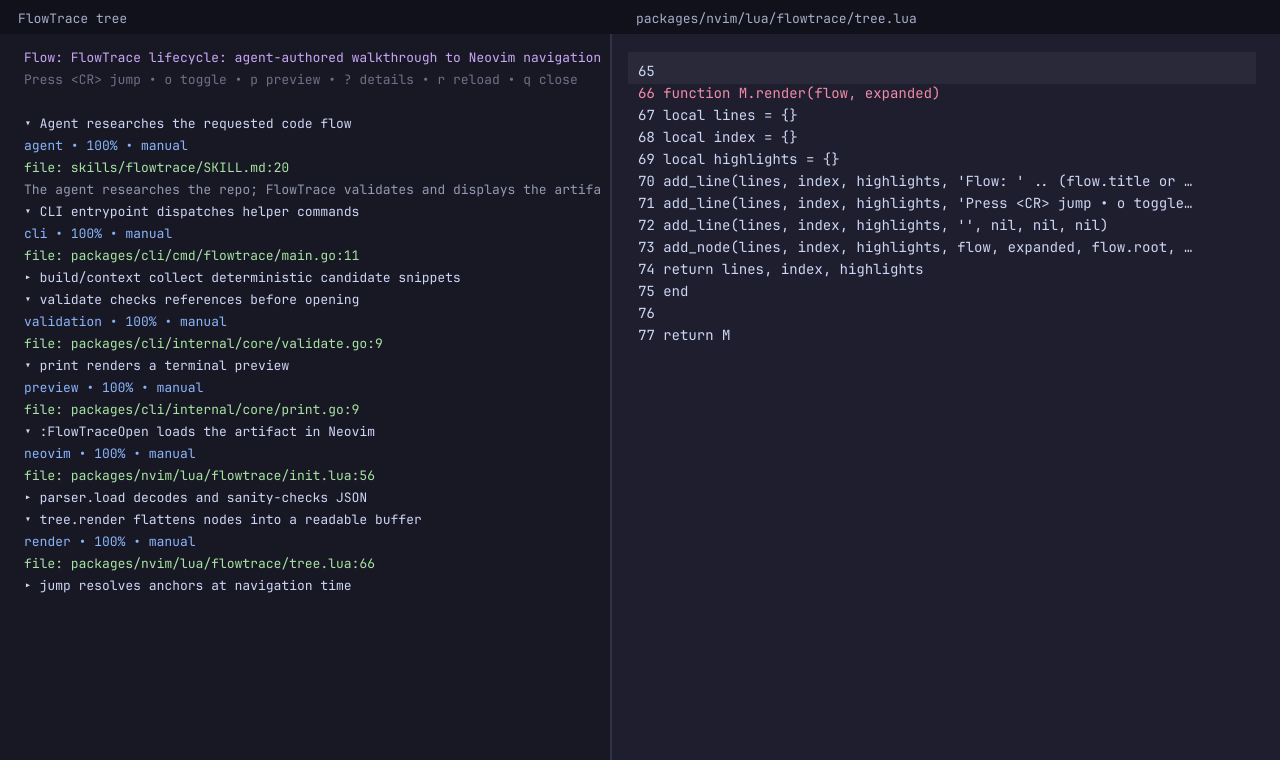
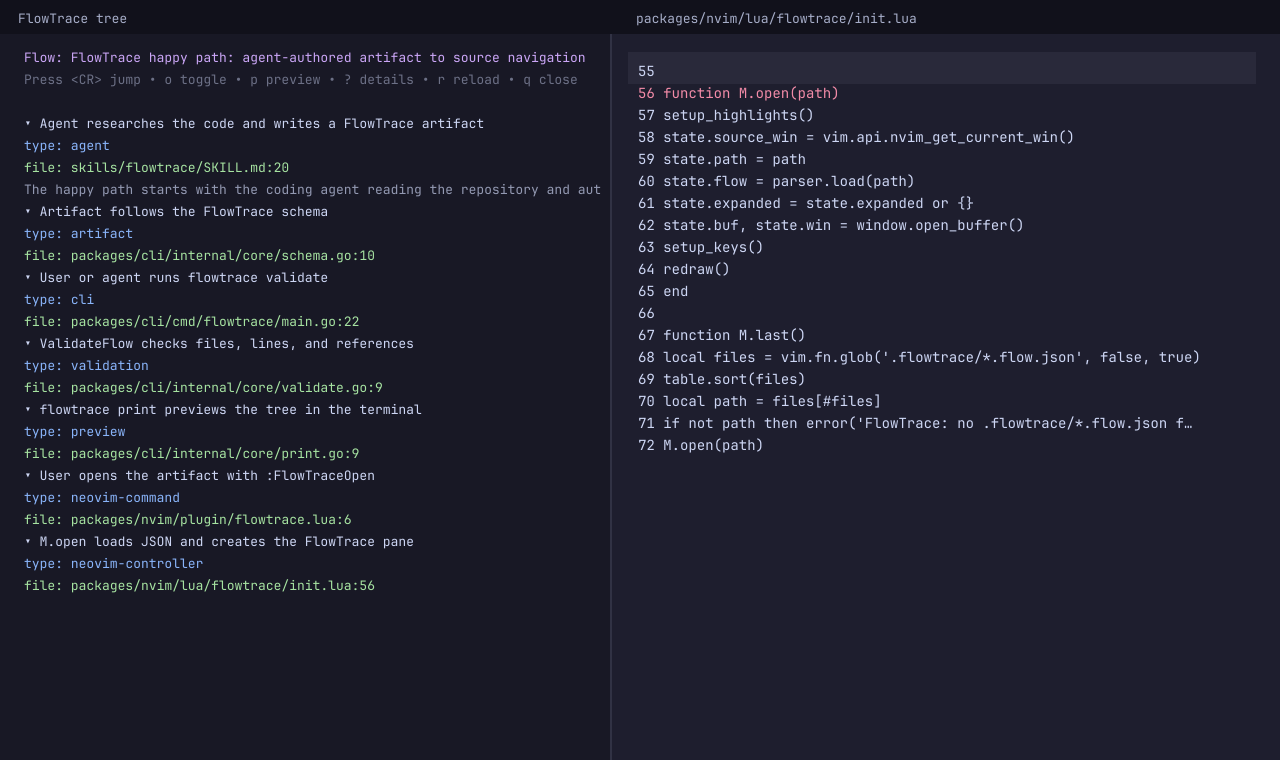
Simplify FlowTrace UI metadata

diff --git a/packages/cli/internal/core/print.go b/packages/cli/internal/core/print.go
@@ -23,11 +23,7 @@ func printNode(w io.Writer, f *Flow, id, prefix string, last bool, seen map[stri
 		connector = "├─ "
 		nextPrefix = prefix + "│  "
 	}
-	conf := ""
-	if n.Confidence > 0 {
-		conf = fmt.Sprintf(" %.0f%%", n.Confidence*100)
-	}
-	fmt.Fprintf(w, "%s%s%s%s [%s] %s:%d\n", prefix, connector, n.Label, conf, n.Kind, n.File, n.Line)
+	fmt.Fprintf(w, "%s%s%s [%s] %s:%d\n", prefix, connector, n.Label, n.Kind, n.File, n.Line)
 	if seen[id] {
 		fmt.Fprintf(w, "%s   ↳ already shown\n", prefix)
 		return

diff --git a/README.md b/README.md
@@ -16,7 +16,7 @@ The same artifact can be inspected in the terminal before opening Neovim:
 
 ![FlowTrace terminal tree preview](docs/assets/flowtrace-terminal.png)
 
-The artifact used for these screenshots is [`examples/flowtrace-lifecycle.flow.json`](examples/flowtrace-lifecycle.flow.json).
+The artifact used for these screenshots is [`examples/flowtrace-happy-path.flow.json`](examples/flowtrace-happy-path.flow.json).
 
 ## Repository layout
 
@@ -103,14 +103,14 @@ go run ./packages/cli/cmd/flowtrace print examples/simple.flow.json
 Preview the included lifecycle artifact:
 
 ```bash
-go run ./packages/cli/cmd/flowtrace validate --root . examples/flowtrace-lifecycle.flow.json
-go run ./packages/cli/cmd/flowtrace print examples/flowtrace-lifecycle.flow.json
+go run ./packages/cli/cmd/flowtrace validate --root . examples/flowtrace-happy-path.flow.json
+go run ./packages/cli/cmd/flowtrace print examples/flowtrace-happy-path.flow.json
 ```
 
 Open the artifact in Neovim after installing the plugin:
 
 ```vim
-:FlowTraceOpen examples/flowtrace-lifecycle.flow.json
+:FlowTraceOpen examples/flowtrace-happy-path.flow.json
 ```
 
 ## Install the Agent Skill
